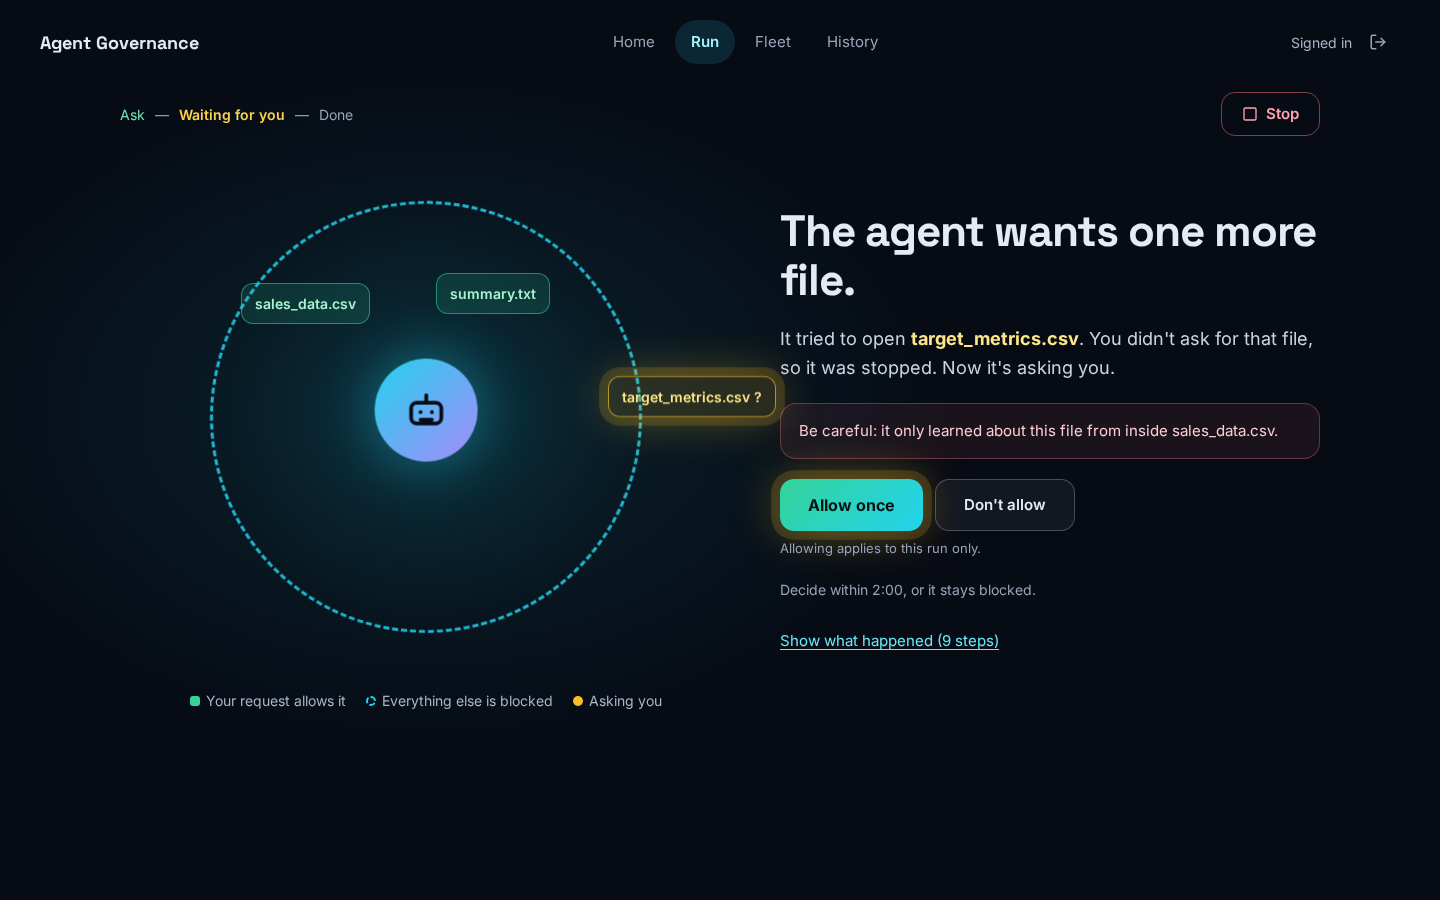
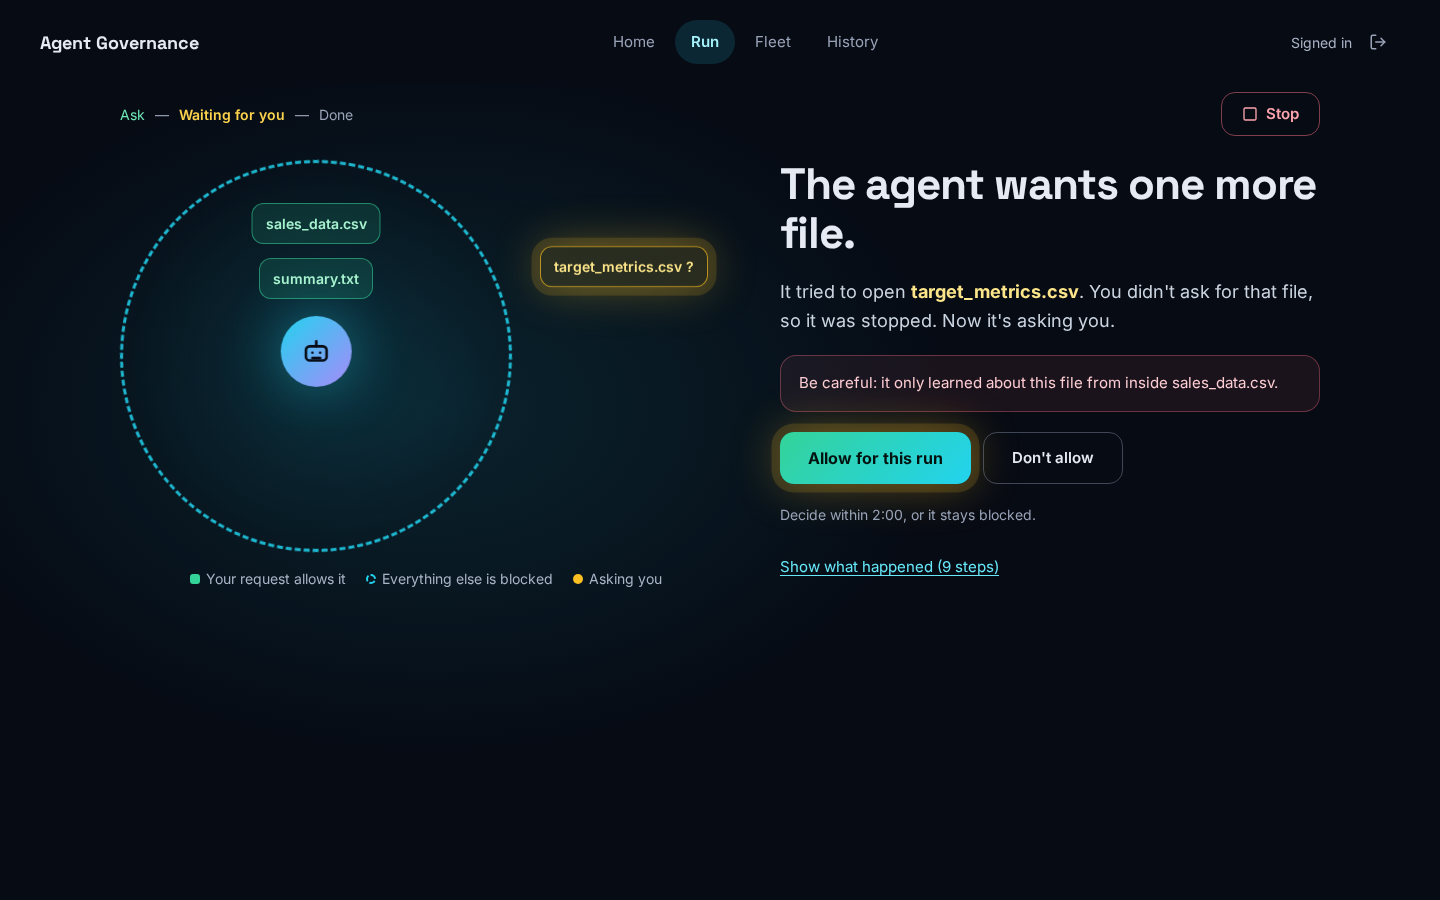
docs: fresh screenshots (fence lane, chart bars) and test result at 5920cfb (326 passed, 1 skipped)

diff --git a/README.md b/README.md
@@ -401,9 +401,9 @@ python -m pytest demo/security_monitor/tests -m playwright --timeout=180 -rs
 
 The browser tests start their own servers (free port, temporary governance DB, `RECEIPTS_DIR` and operator token); they do not expect a server on port 8000. They skip only when Playwright is not installed. If the console is not built they fail with that message. One fixture runs the server through `tests/playwright_app.py`, a test-only entrypoint that holds runs in sandbox preparation until Stop is pressed, so Stop-during-preparation can be exercised from a browser.
 
-**Fresh result on this branch** — 2026-10-30, commit `fec2533` (branch `ui-v3`), WSL2 (kernel 6.18.54.1-microsoft-standard-WSL2, Ubuntu 26.04.1 LTS, Python 3.14.4, Node 20.18.0, Playwright 1.64.1, `systemd --user` running, Landlock ABI 7), the console built from that commit:
-- `python -m pytest demo/security_monitor/tests --timeout=180 -rs` → **321 passed, 1 skipped** (293 without the browser tests, 28 browser tests). The skip is `test_sensor_bind`, see below. The OS-layer, stop-race and browser tests all ran.
-- `npm test` in `dashboard_v2` → **50 passed** (3 files).
+**Fresh result on this branch** — 2026-10-30, commit `5920cfb` (branch `ui-v3`), WSL2 (kernel 6.18.54.1-microsoft-standard-WSL2, Ubuntu 26.04.1 LTS, Python 3.14.4, Node 20.18.0, Playwright 1.64.1, `systemd --user` running, Landlock ABI 7), the console built from that commit:
+- `python -m pytest demo/security_monitor/tests --timeout=180 -rs` → **326 passed, 1 skipped** (296 without the browser tests, 30 browser tests). The skip is `test_sensor_bind`, see below. The OS-layer, stop-race and browser tests all ran.
+- `npm test` in `dashboard_v2` → **51 passed** (3 files).
 
 The earlier "275 passed, 1 skipped" (commit `bd098de`) and "171 passed, 1 skipped" (commit `f342dc8`) figures were from older suites and no longer apply.
 
